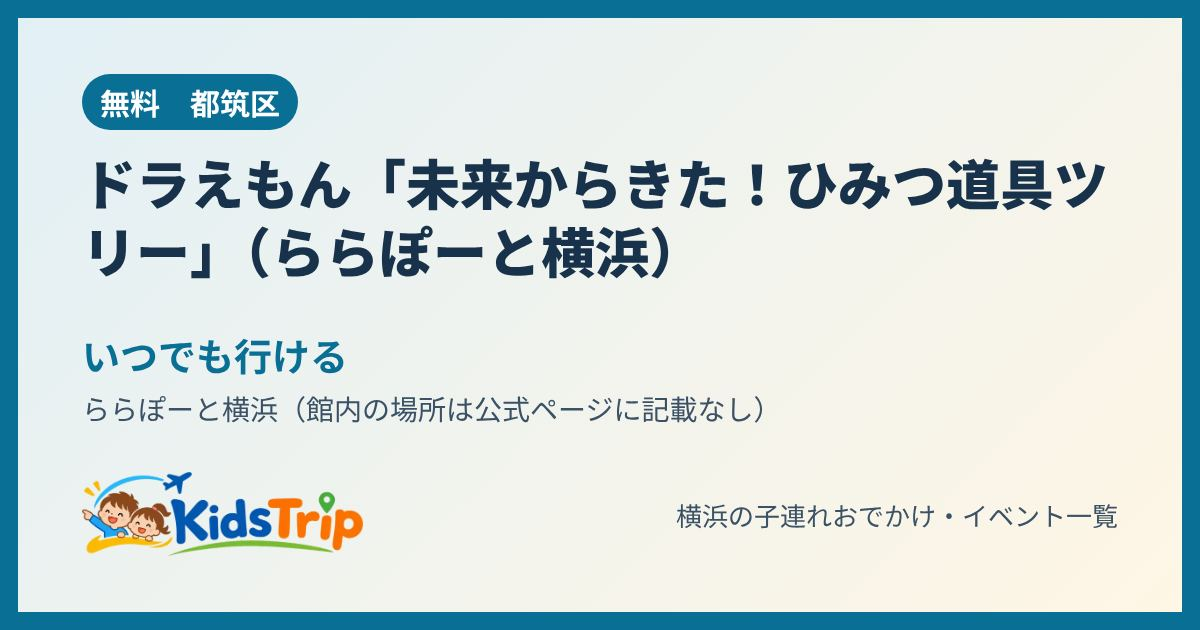
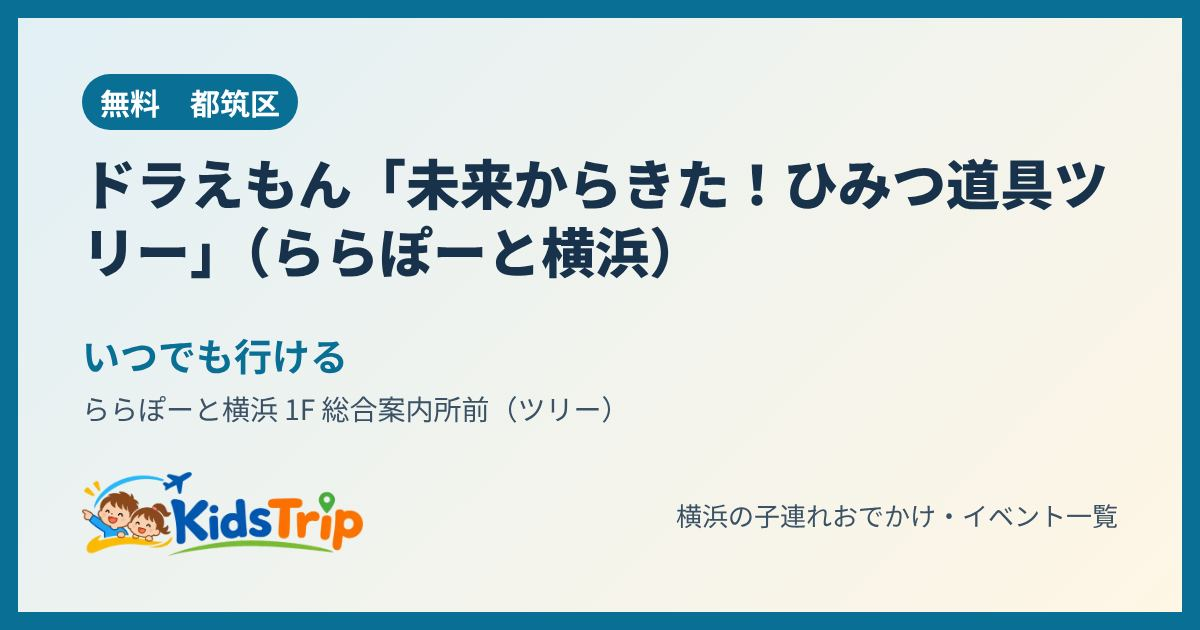
11月26日 昼の確認：ららぽーと横浜のドラえもんツリーに場所・スタンプラリーを公式で追記
Claude-Session: https://claude.ai/code/session_014AtJ2d3zxRMqy9JQv54nfH

Changed region(s): [[0.2467, 0.6333, 0.6475, 0.6937]]

diff --git a/event/11ylfka/index.html b/event/11ylfka/index.html
@@ -4,12 +4,12 @@
 <meta charset="utf-8">
 <meta name="viewport" content="width=device-width, initial-scale=1">
 <title>ドラえもん「未来からきた！ひみつ道具ツリー」（ららぽーと横浜）（都筑区）｜横浜の子連れおでかけ｜KidsTrip</title>
-<meta name="description" content="ひみつ道具をテーマにしたドラえもんのクリスマスツリーが飾られる。（ららぽーと横浜（館内の場所は公式ページに記載なし）・見るのは無料）">
+<meta name="description" content="ひみつ道具をテーマにしたドラえもんのクリスマスツリーが飾られる。（ららぽーと横浜 1F 総合案内所前（ツリー）・見るのは無料）">
 <link rel="canonical" href="https://kidstrip.jp/event/11ylfka/">
 <meta property="og:type" content="article">
 <meta property="og:site_name" content="KidsTrip">
 <meta property="og:title" content="ドラえもん「未来からきた！ひみつ道具ツリー」（ららぽーと横浜）（都筑区）｜横浜の子連れおでかけ｜KidsTrip">
-<meta property="og:description" content="ひみつ道具をテーマにしたドラえもんのクリスマスツリーが飾られる。（ららぽーと横浜（館内の場所は公式ページに記載なし）・見るのは無料）">
+<meta property="og:description" content="ひみつ道具をテーマにしたドラえもんのクリスマスツリーが飾られる。（ららぽーと横浜 1F 総合案内所前（ツリー）・見るのは無料）">
 <meta property="og:url" content="https://kidstrip.jp/event/11ylfka/">
 <meta property="og:image" content="https://kidstrip.jp/og/11ylfka.jpg">
 <meta property="og:image:width" content="1200">
@@ -58,19 +58,19 @@ footer{margin:28px 0 8px;font-size:12px;color:var(--muted)}
 <table class="info">
 <tr><th>日にち</th><td>会期 11/30〜12/25</td></tr>
 <tr><th>時間</th><td>公式ページに記載なし（施設の営業時間内）</td></tr>
-<tr><th>場所</th><td>都筑区・ららぽーと横浜（館内の場所は公式ページに記載なし）</td></tr>
+<tr><th>場所</th><td>都筑区・ららぽーと横浜 1F 総合案内所前（ツリー）</td></tr>
 <tr><th>料金</th><td>見るのは無料</td></tr>
 <tr><th>対象</th><td>全年齢</td></tr>
 <tr><th>予約</th><td>予約なし</td></tr>
 <tr><th>雨の日</th><td>雨でもOK（館内なので雨でもOK）</td></tr>
 </table>
 <p class="sum">ひみつ道具をテーマにしたドラえもんのクリスマスツリーが飾られる。</p>
-<p class="tip">💡 等身大ドラえもんは横浜には来ない。買い物で応募できるプレゼントキャンペーンもある</p>
-<p class="small">情報の時点：2026年11月24日　出典：ららぽーと 公式（特設ページ）</p>
-<div class="btns"><a class="btn main" data-act="official" href="https://mitsui-shopping-park.com/lalaport/special/winter_doraemon_christmasforyou_2026/" target="_blank" rel="noopener">公式ページで確認</a>
+<p class="tip">💡 1F 総合案内所横に「どこでもドア」のフォトスポット、1F NIKE前・2F アカチャンホンポ前・3F WEGO前をめぐるひみつ道具スタンプラリー（応募で抽選のプレゼント）もある。12/19・20は1F サウスコートでおなまえキーホルダーづくり（人数限定）。等身大ドラえもんは横浜には来ない</p>
+<p class="small">情報の時点：2026年11月26日　出典：ららぽーと横浜 公式（イベント・キャンペーン）</p>
+<div class="btns"><a class="btn main" data-act="official" href="https://mitsui-shopping-park.com/lalaport/yokohama/event/3666426.html" target="_blank" rel="noopener">公式ページで確認</a>
 <a class="btn" href="/?e=11ylfka">一覧で見る（行き方・近くのごはん）</a>
 <button type="button" class="btn" data-share="1">🔗 リンクを送る・コピー</button>
-<a class="btn line" href="https://line.me/R/share?text=%E3%80%90%E3%83%89%E3%83%A9%E3%81%88%E3%82%82%E3%82%93%E3%80%8C%E6%9C%AA%E6%9D%A5%E3%81%8B%E3%82%89%E3%81%8D%E3%81%9F%EF%BC%81%E3%81%B2%E3%81%BF%E3%81%A4%E9%81%93%E5%85%B7%E3%83%84%E3%83%AA%E3%83%BC%E3%80%8D%EF%BC%88%E3%82%89%E3%82%89%E3%81%BD%E3%83%BC%E3%81%A8%E6%A8%AA%E6%B5%9C%EF%BC%89%E3%80%91%0A%E4%BC%9A%E6%9C%9F%2011/30%E3%80%9C12/25%E3%80%80%E5%85%AC%E5%BC%8F%E3%83%9A%E3%83%BC%E3%82%B8%E3%81%AB%E8%A8%98%E8%BC%89%E3%81%AA%E3%81%97%EF%BC%88%E6%96%BD%E8%A8%AD%E3%81%AE%E5%96%B6%E6%A5%AD%E6%99%82%E9%96%93%E5%86%85%EF%BC%89%0A%E5%A0%B4%E6%89%80%EF%BC%9A%E9%83%BD%E7%AD%91%E5%8C%BA%E3%83%BB%E3%82%89%E3%82%89%E3%81%BD%E3%83%BC%E3%81%A8%E6%A8%AA%E6%B5%9C%EF%BC%88%E9%A4%A8%E5%86%85%E3%81%AE%E5%A0%B4%E6%89%80%E3%81%AF%E5%85%AC%E5%BC%8F%E3%83%9A%E3%83%BC%E3%82%B8%E3%81%AB%E8%A8%98%E8%BC%89%E3%81%AA%E3%81%97%EF%BC%89%0Ahttps%3A//kidstrip.jp/event/11ylfka/" target="_blank" rel="noopener">LINEで送る</a></div>
+<a class="btn line" href="https://line.me/R/share?text=%E3%80%90%E3%83%89%E3%83%A9%E3%81%88%E3%82%82%E3%82%93%E3%80%8C%E6%9C%AA%E6%9D%A5%E3%81%8B%E3%82%89%E3%81%8D%E3%81%9F%EF%BC%81%E3%81%B2%E3%81%BF%E3%81%A4%E9%81%93%E5%85%B7%E3%83%84%E3%83%AA%E3%83%BC%E3%80%8D%EF%BC%88%E3%82%89%E3%82%89%E3%81%BD%E3%83%BC%E3%81%A8%E6%A8%AA%E6%B5%9C%EF%BC%89%E3%80%91%0A%E4%BC%9A%E6%9C%9F%2011/30%E3%80%9C12/25%E3%80%80%E5%85%AC%E5%BC%8F%E3%83%9A%E3%83%BC%E3%82%B8%E3%81%AB%E8%A8%98%E8%BC%89%E3%81%AA%E3%81%97%EF%BC%88%E6%96%BD%E8%A8%AD%E3%81%AE%E5%96%B6%E6%A5%AD%E6%99%82%E9%96%93%E5%86%85%EF%BC%89%0A%E5%A0%B4%E6%89%80%EF%BC%9A%E9%83%BD%E7%AD%91%E5%8C%BA%E3%83%BB%E3%82%89%E3%82%89%E3%81%BD%E3%83%BC%E3%81%A8%E6%A8%AA%E6%B5%9C%201F%20%E7%B7%8F%E5%90%88%E6%A1%88%E5%86%85%E6%89%80%E5%89%8D%EF%BC%88%E3%83%84%E3%83%AA%E3%83%BC%EF%BC%89%0Ahttps%3A//kidstrip.jp/event/11ylfka/" target="_blank" rel="noopener">LINEで送る</a></div>
 </article>
 
 <h2>歩いて10分以内のおむつ替え・授乳室・お湯</h2><table class="bm"><thead><tr><th>場所</th><th>おむつ替え</th><th>授乳室</th><th>お湯</th><th>レンジ</th></tr></thead><tbody><tr><th scope="row"><a href="/spot/1sx8mms/">ららぽーと横浜</a></th><td class="y">○</td><td class="y">○</td><td class="y">○</td><td class="y">○</td></tr></tbody></table><p class="legend">○ あり　× なし　？ 調べた範囲で確認できず</p>

diff --git a/index.html b/index.html
@@ -1004,7 +1004,7 @@ details.ledemore .lede { margin-top: 4px; }
   </footer>
 </div>
 
-<script src="js/data.js?v=ee814a70bb" defer></script>
+<script src="js/data.js?v=f42cfc54d5" defer></script>
 <script src="js/app.js?v=27e0394bd8" defer></script>
 </body>
 </html>

diff --git a/tools/runs.md b/tools/runs.md
@@ -167,3 +167,4 @@
 | 2026-11-26 | 毎朝の更新 | 04:47〜05:01 | 14 | 終わったイベント3件を外す、新規10件（ノースポート・モール12月の工作6件・あーすぷらざ・たまプラーザ テラス2件・すたぁ☆ふぇす横浜）、今週末の約20件を公式で確認（中止なし）、候補を更新 |
 | 2026-11-26 | 利用者との作業 | 09:23ごろ | 5 | 利用者が送った公式ページから7件追加（ノースポート・モールのサンドボトル、ジョイナステラスのチューリップ植付け、カエデウォークのプラネットツアーズ、金沢国際交流ラウンジ フェスティバル、ズーラシア・金沢動物園のカレンダープレゼント、ズーラシアのクリスマス）、候補から3件消す |
 | 2026-11-26 | 利用者との作業 | 09:43ごろ | 4 | 食事の目安タブのお店カード・印・注意書き・検索欄を、暗い画面（ダークモード）でも読める色に |
+| 2026-11-26 | 昼の確認 | 11:41〜11:49 | 1 | 未発表のもの（BALLPARK Xmasのパウ・パトロール、tvkハウジングプラザ）は公式が開けず据え置き。ららぽーと横浜のドラえもんツリーに館内の場所・スタンプラリー・ワークショップを公式で追記。ワールドポーターズ・MARK IS・クイーンズスクエア・ららぽーとの今週末〜来週末は既に掲載済み |
